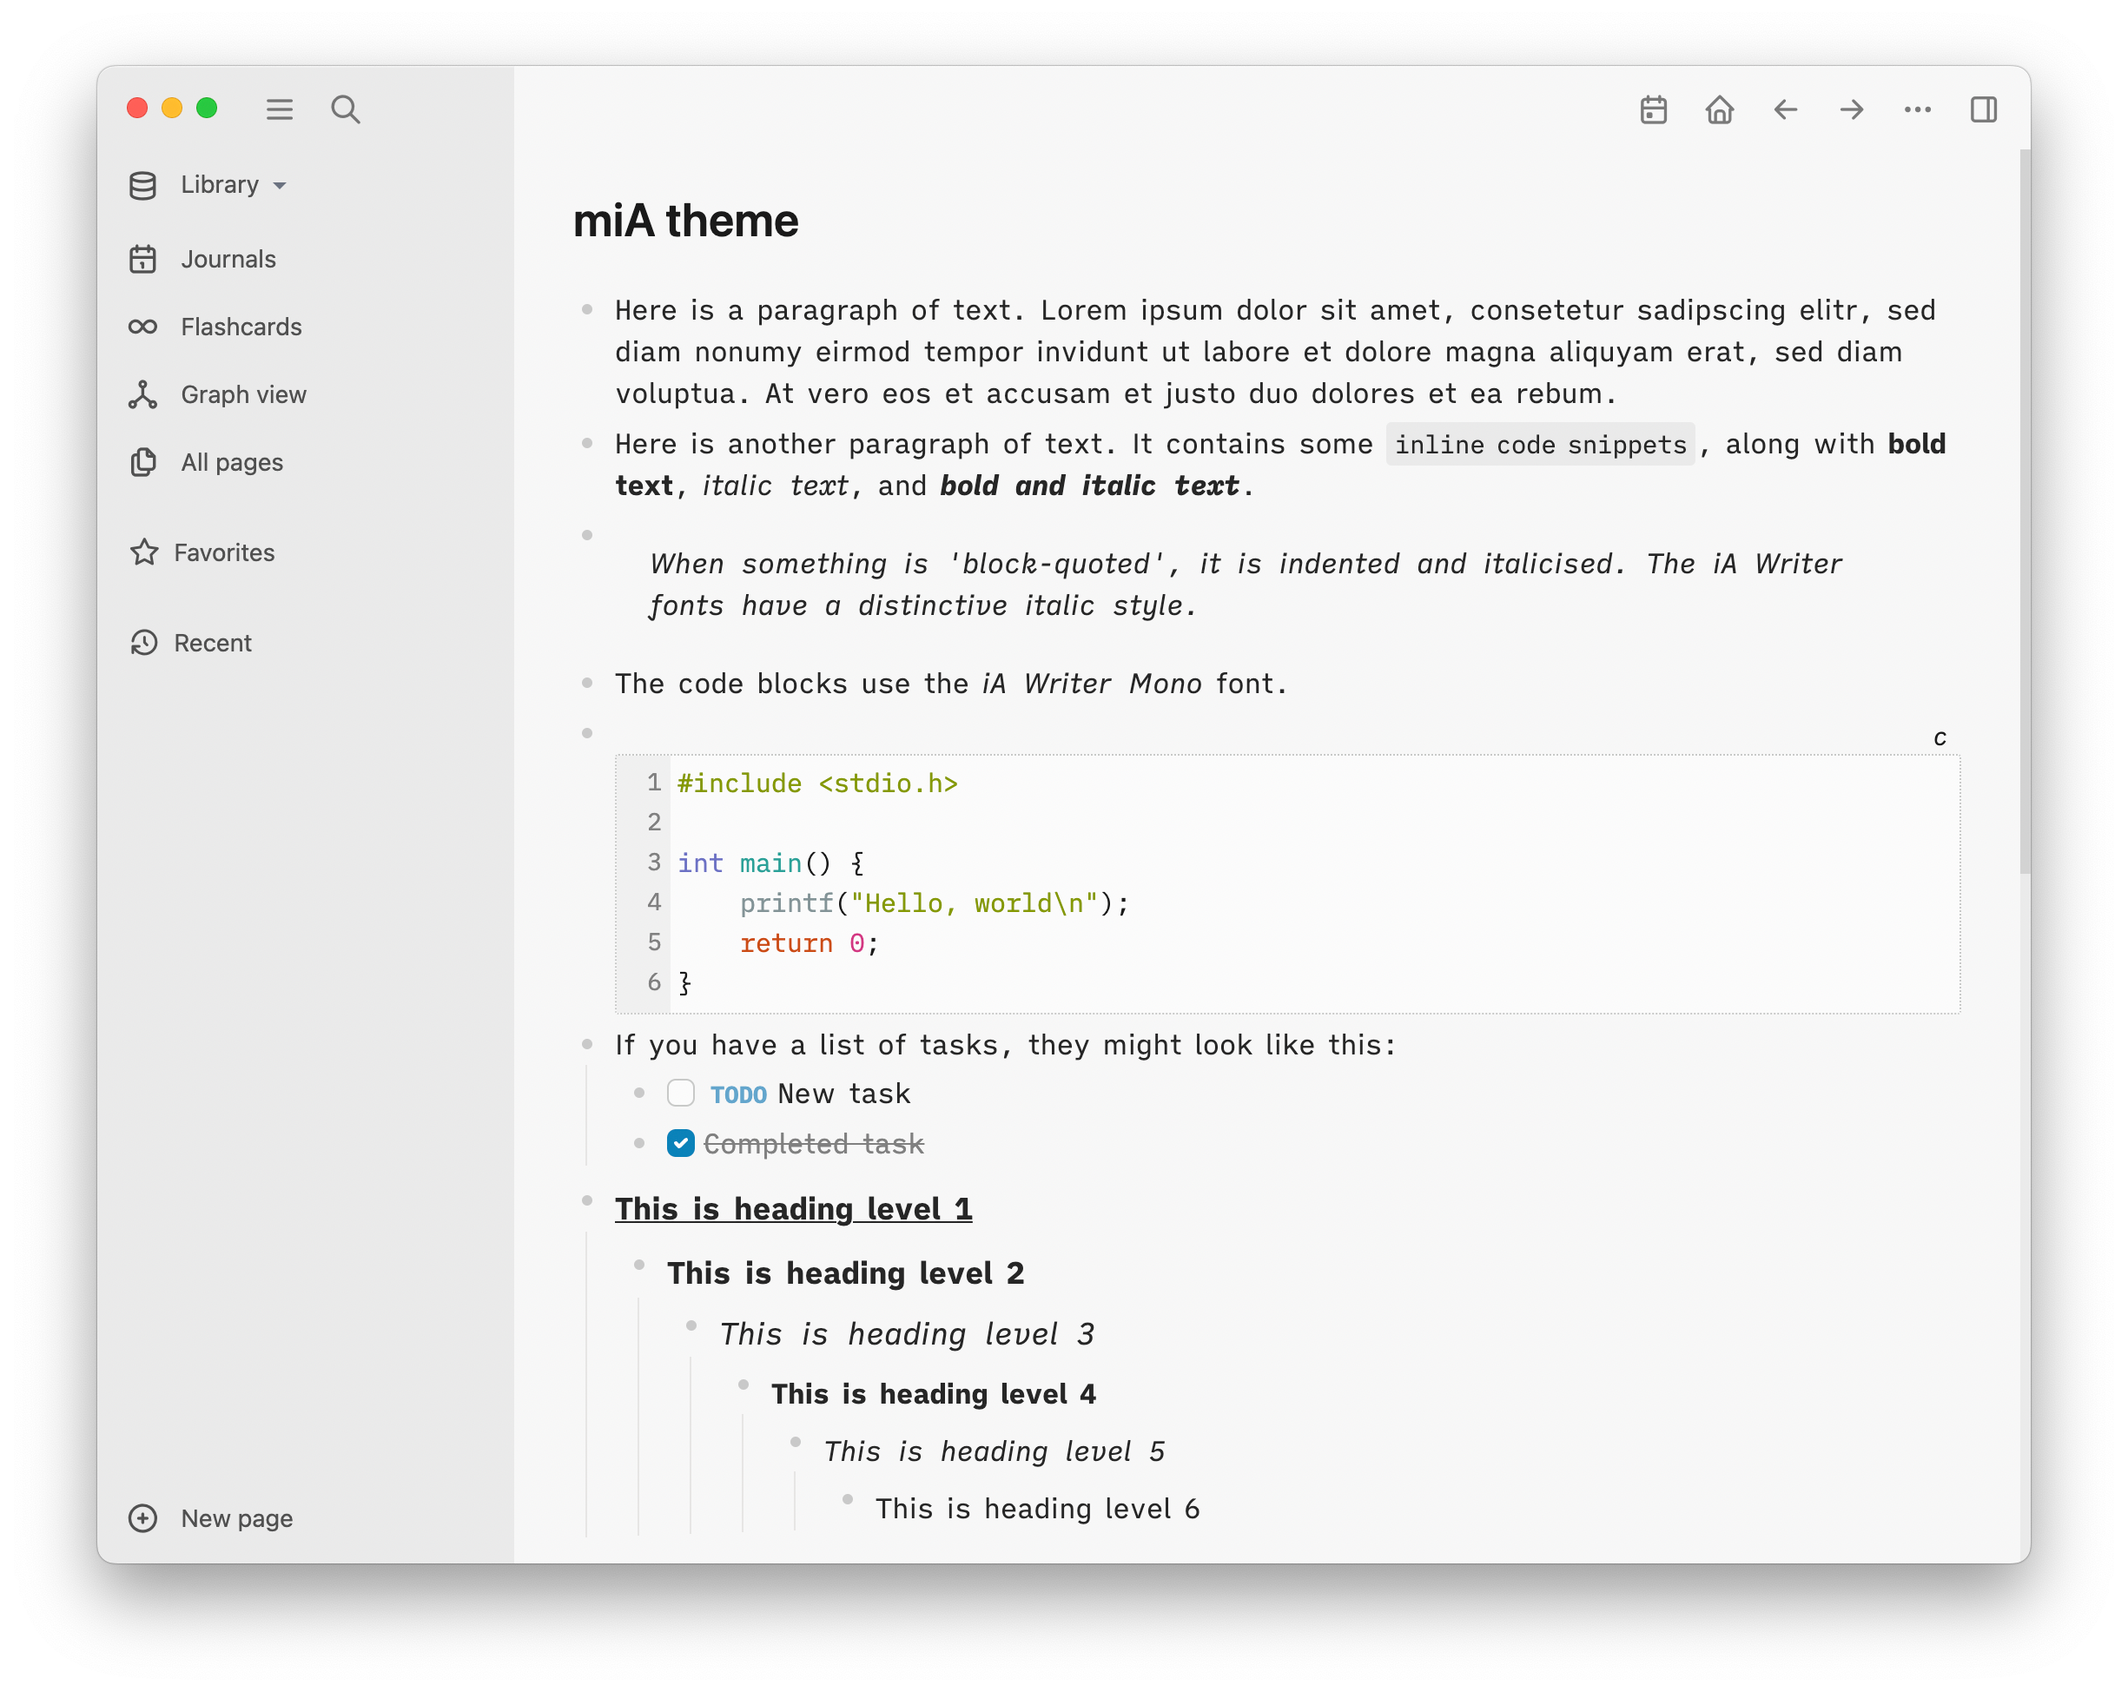
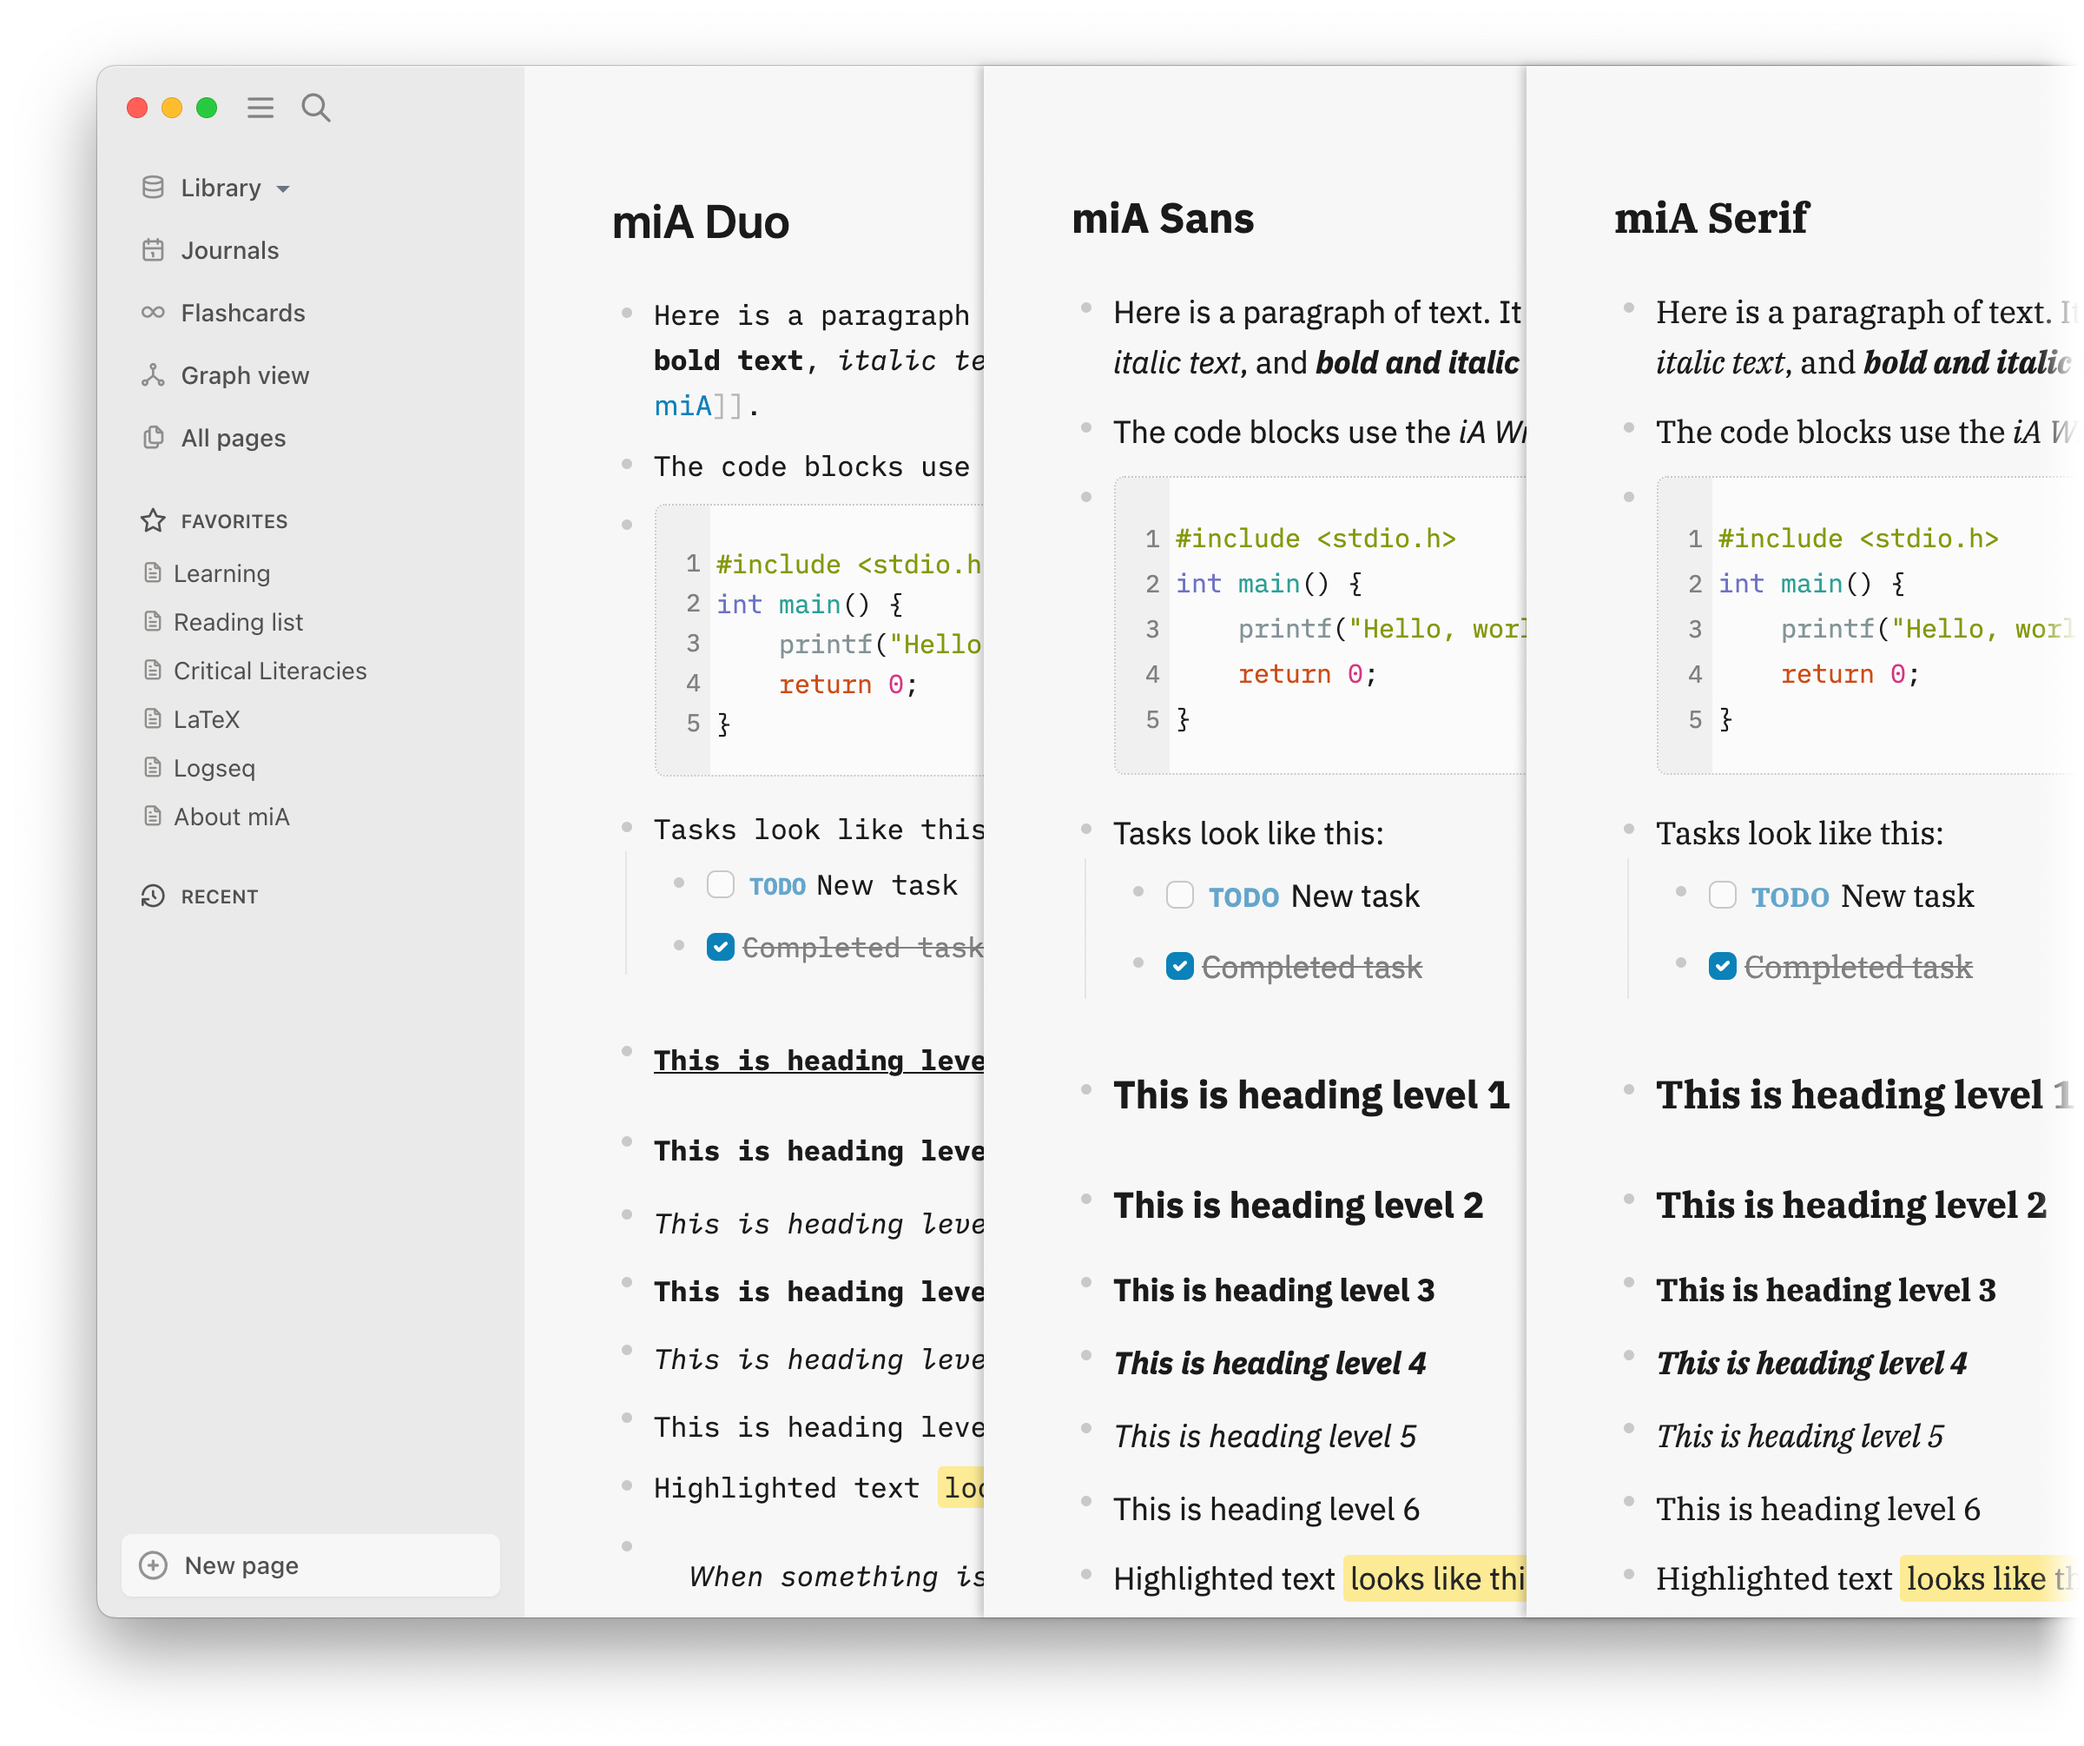
Update readme, screenshots

diff --git a/README.md b/README.md
@@ -1,85 +1,119 @@
 ## Logseq miA theme
 
-A [Logseq](https://github.com/logseq/logseq) theme inspired by [macOS](https://www.apple.com/macos/monterey/) and [iA Writer](https://ia.net/writer), supporting light mode and dark mode (configured in Logseq **Settings**), with additional font variations ("duo"-spaced and monospaced).
+**miA** is a Logseq theme family inspired by the styling and typography used by [macOS](https://www.apple.com/macos/monterey/) and [iA Writer](https://ia.net/writer). All of the **miA** themes share a common aesthetic and support light and dark mode (based on the selection in Logseq's *Settings*). Priority is placed on providing a clean editing and reading experience in a familiar, productive environment.
 
 ![miA light](./screenshots/miA-light.png)
 
-![miA light duo](./screenshots/miA-light-duo.png)
-
 ![miA dark](./screenshots/miA-dark.png)
 
-![miA dark mono](./screenshots/miA-dark-mono.png)
+| Theme name | Font | Purpose |
+|---|---|---|
+| miA Mono | iA Writer Mono | When you want to work with a monospace font, focusing on content not presentation. |
+| miA Duo | iA Writer Duo | Like a monospace font, but without the compromises imposed on wider letters. |
+| miA Quattro | iA Writer Quattro | More like a proportional font than Duo, with some narrower letters. Good for small screens. |
+| miA Sans | IBM Plex Sans | When you want to see your work in a modern sans serif format. Good for reading. |
+| miA Serif | IBM Plex Serif | When you want to see your work in a classic serif format. Good for reading. |
 
-For user interface elements, the 'system' font is used—[San Francisco](https://developer.apple.com/fonts/) on macOS. User content is rendered using the [iA Writer fonts](https://github.com/iaolo/iA-Fonts). The colour scheme is inspired by *iA Writer* and *macOS*.
+## Installation
 
-The main *miA* theme uses the "iA Writer Quattro" font for content, *miA Duo* uses the "iA Writer Duo" font for content, and *miA Mono* uses the "iA Writer Mono" font for content. All variations use the mono font for code (inline and blocks). The *Duo* and *Mono* variations have small spacing changes, and the heading font sizes are the same as regular text.
+**miA** is available on the Logseq marketplace. To see the marketplace, choose *Plugins* from Logseq's main menu. Once **miA** is installed, choose *Themes* from the main menu, then select the desired theme variation.
 
-### Using the theme
+If you don’t see Plugins on the main menu, you will need to enable plug-ins: go to Logseq *Settings* from the main menu, then the *Advanced* section, and enable the Plug-in system. You will then need to restart Logseq.
 
-You can install the theme using the *Logseq marketplace* and choose the variation from the **Themes** menu.
+If you don’t want to use the marketplace, you can add **one** of the following lines to the start of your Logseq `custom.css` file (you can access this file from *Settings*).
 
-Go to **Plugins** from the main menu (click on '...' in top right of the Logseq window ), select **Marketplace** and then **Themes**. Each theme has an 'Install' link.
-
-If you don't see **Plugins** on the main menu, you need to enable plug-ins: go to Logseq **Settings** from the main menu, then the **Advanced** section, and enable the **Plug-in system** and restart Logseq.
-
-If you don't want to use the marketplace, you can add one of the following lines to your `custom.css` page in Logseq (you can edit this file using Logseq **Settings**).
-
-To use *miA* (with the "Quattro" font):
-
-```
-@import url('https://playerofgames.github.io/logseq-mia-theme/mia.css');
-```
-
-To use *miA Duo*:
-
-```
-@import url('https://playerofgames.github.io/logseq-mia-theme/mia_duo.css');
-```
-
-To use *miA Mono*:
-
-```
+``` css
 @import url('https://playerofgames.github.io/logseq-mia-theme/mia_mono.css');
+@import url('https://playerofgames.github.io/logseq-mia-theme/mia_duo.css');
+@import url('https://playerofgames.github.io/logseq-mia-theme/mia_quattro.css');
+@import url('https://playerofgames.github.io/logseq-mia-theme/mia_sans.css');
+@import url('https://playerofgames.github.io/logseq-mia-theme/mia_serif.css');
 ```
 
-### Tweaks
+## Customising the themes
 
-The following CSS variables are used to produce the different theme variations, shown here with the values for *Duo*:
+The themes use **CSS variables** to control various aspects of presentation, and may therefore serve as a good foundation for user-specified typography choices. The following variables are available, and their purpose is mostly self-explanatory. Values specified by the *miA Serif* theme are shown as an exemplar.
 
-```
---content-font-family:  "iA Writer Duo S";
---content-line-height: 20pt;
---block-padding: 4px;
---content-h1-size: 100%;
---content-h2-size: 100%;
---content-h3-size: 100%;
-```
+| Variable name | Default value | Value for *miA Serif* |
+|---|---|---|
+| --content-font-family | (not set—theme-specific) | "IBM Plex Serif" |
+| --content-font-size | 12pt | 13.5pt |
+| --content-line-height | 20pt | 22pt |
+| --content-font-stylistic-set | (not set—see note 1) | |
+| --title-font-family | (system font—see note 2) | "IBM Plex Serif" |
+| --title-font-size | 20pt | 18pt |
+| --title-font-breadcrumb-size | (same as content font size) | 13.5pt |
+| --title-font-stylistic-set | (not set—see note 1) | |
+| --block-padding | 2px | 5px |
+| --content-h1-text-decoration | underline | none |
+| --content-h1-size | 110% | 123% |
+| --content-h1-font-weight | **bold** | |
+| --content-h1-font-style | normal | |
+| --content-h2-size | 110% | 115% |
+| --content-h2-font-weight | **bold** | |
+| --content-h2-font-style | normal | |
+| --content-h3-size | 110% | 100% |
+| --content-h3-font-weight | normal | **bold** |
+| --content-h3-font-style | *italic* | normal |
+| --content-h4-size | 100% | |
+| --content-h4-font-weight | **bold** | **bold** |
+| --content-h4-font-style | normal | *italic* |
+| --content-h5-size | 100% | |
+| --content-h5-font-weight | normal | |
+| --content-h5-font-style | *italic* | |
+| --content-h6-size | 100% | |
+| --content-h6-font-weight | normal | |
+| --content-h6-font-style | normal | |
+| --table-border-color | (same as bullet colour) | |
+| --table-font-size | 100% | |
+| --table-heading-font-size | 90% | 75% |
+| --table-heading-transform | none | uppercase |
 
-For example, if you wanted the *Duo* variation to use the standard *Logseq* line-height, you could do:
+**Notes**
 
-```
-:root {
-	--content-line-height: inherit;
+1. Font feature settings may be used to specify, for example, non-slashed zeros (as in *miA Quattro*).
+
+2. The title font applies to page titles and breadcrumbs (the path shown at the top of pages and in references).
+
+## Tips and tricks
+
+### Journal entries
+
+There are two ways to view a Journal entry: from the *Journals* view where you can scroll through the different days, and the page view, where you see just the single day, plus its references. It can be useful to distinguish the two views. One way is by changing how the title is presented when in the journal view. For example, this CSS makes the journal titles italic and normal weight, giving journaling a more informal feel:
+
+``` css
+a.journal-title > h1.title {
+	font-weight: 300;
+	font-style: italic;
 }
 ```
 
-If you like the theme colour scheme, but not the *iA Writer* fonts, you can use another font by changing the `--content-font-family` variable.
+### Matching title font for **miA Quattro**
+For the Mono, Duo and Quattro themes, the System default font is used for page titles and breadcrumbs. However, the *iA Writer Quattro* font is [almost] a proportional font and is sufficiently compact to use for titles and breadcrumbs. If you use **miA Quattro**, add the following to `custom.css` to change titles and breadcrumbs to match:
 
-If you are not on *macOS* and would like the full theme effect of the Logseq user interface with the *San Francisco* font, you can install the "SF Pro Text" and "SF Pro Display" fonts from [here](https://developer.apple.com/fonts/).
+``` css
+:root {
+	--title-font-family: "iA Writer Quattro S";
+	--title-font-size: 18pt;
+	--title-font-stylistic-set: "ss04"; /* plain (not dotted) zeros */
+}
+```
 
-### Links
+(If you aren't using **miA Quattro**, you'll have to install the *iA Writer Quattro* font first.)
 
-https://github.com/playerofgames/logseq-mia-theme
+## Credits
 
-### Credits
+["iA Writer" fonts](https://ia.net/topics/a-typographic-christmas): Copyright © 2018 Information Architects Inc. with Reserved Font Name "iA Writer". Licensed under the SIL Open Font License 1.1.
 
-[iA](https://ia.net) for their fonts.
+[IBM "Plex" fonts](https://www.ibm.com/plex/): Copyright © 2017 IBM Corp. with Reserved Font Name "Plex". Licensed under the SIL Open Font License 1.1.
 
-[IBM](https://www.ibm.com/plex/) for their Plex font (which is the genesis of the iA fonts).
+[rcvd](https://github.com/rcvd) for their Logseq Quattro theme, from which I took inspiration to make the first **miA** theme.
 
-[rcvd](https://github.com/rcvd) for their Logseq [Quattro theme](https://github.com/rcvd/logseq-quattro-theme), from which I took inspiration to make this theme.
+## Licence
 
 Licensed under the MIT License.
+
+
 
 ![Logseq miA theme](./icon.png)
 
